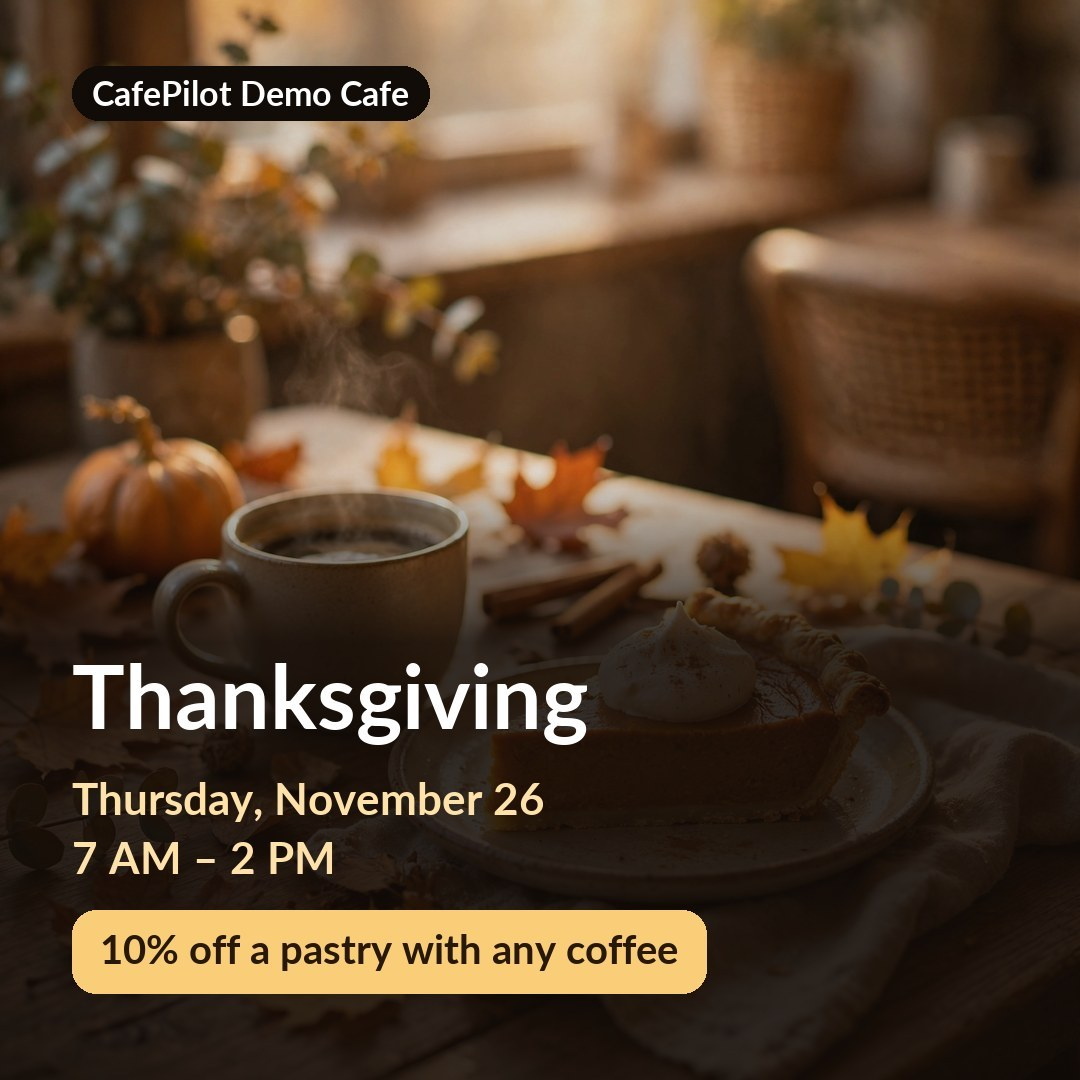
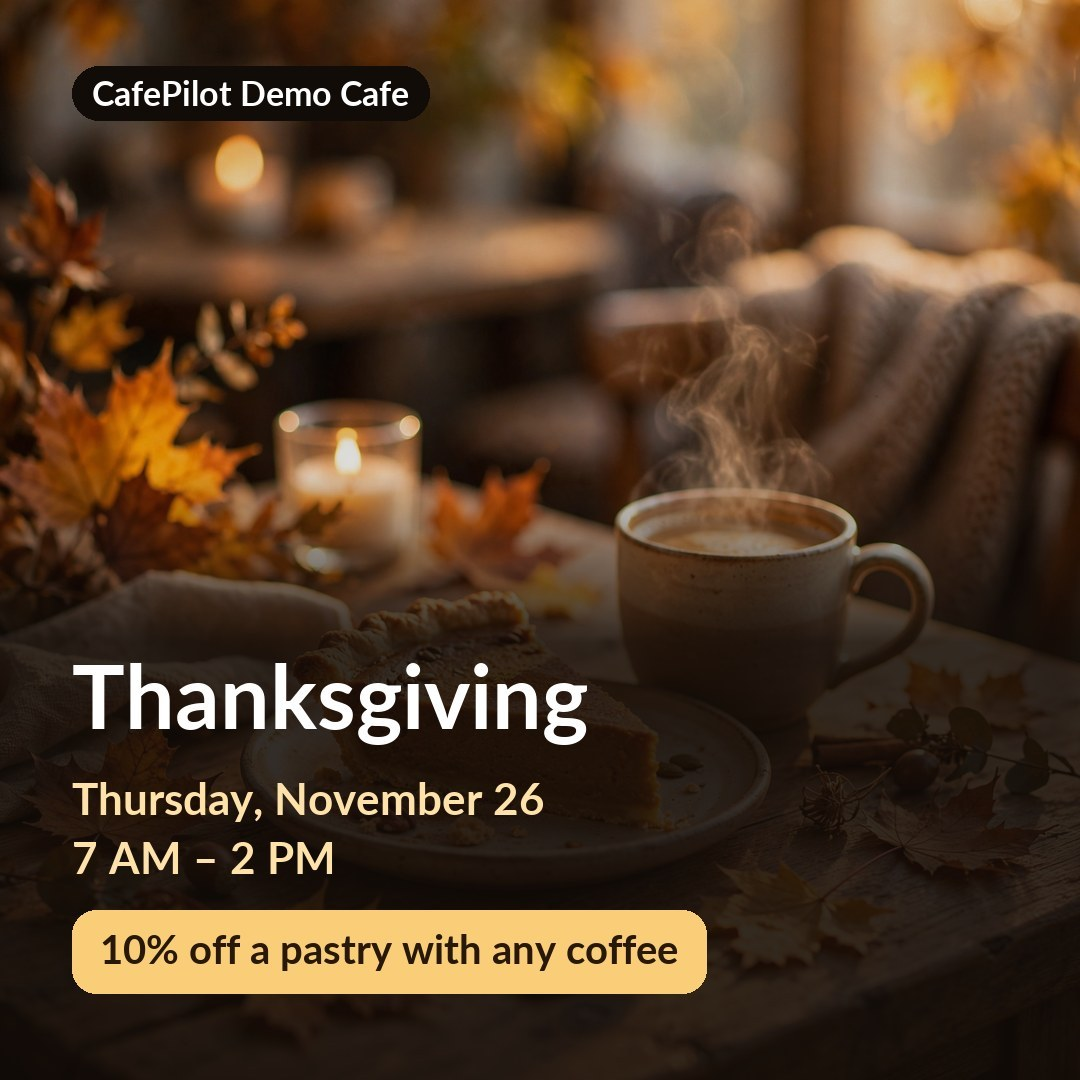
chore(promo): remake the Thanksgiving sample with a Muse caption
With the 45 s caption timeout Muse answered in 25.5 s and the caption passed the number/date
check. make_promo_samples.py gains --only to remake one sample and keep the others.

diff --git a/business-core/scripts/make_promo_samples.py b/business-core/scripts/make_promo_samples.py
@@ -2,6 +2,7 @@
 
 Run from business-core/ (needs MODEL_API_KEY in .env):
     PYTHONPATH=. python scripts/make_promo_samples.py
+    PYTHONPATH=. python scripts/make_promo_samples.py --only SAMPLE-THANKSGIVING   # remake one, keep the rest
 
 Each sample goes through the same pipeline as POST /api/v1/agent/promo-posts (Muse caption checked by
 code, Muse Image background or the code-drawn fallback, every word set by code) and is saved as a JPEG
@@ -11,6 +12,7 @@ labelled "AI-generated draft (demo)", and were never posted anywhere.
 
 from __future__ import annotations
 
+import argparse
 import io
 import json
 from concurrent.futures import ThreadPoolExecutor
@@ -33,15 +35,21 @@ LIMIT_KB = 300
 
 
 def main() -> None:
+    parser = argparse.ArgumentParser(description=__doc__, formatter_class=argparse.RawDescriptionHelpFormatter)
+    parser.add_argument("--only", action="append", choices=sorted(EVENTS), help="remake just this sample (repeatable)")
+    only = set(parser.parse_args().only or EVENTS)
     settings = get_settings()
     client = create_planner_client()
     with SessionLocal() as session:
-        facts = {sid: promo.facts_for(session, eid, promo.DEFAULT_OFFER, allow_past=True) for sid, eid in EVENTS.items()}
+        facts = {sid: promo.facts_for(session, eid, promo.DEFAULT_OFFER, allow_past=True)
+                 for sid, eid in EVENTS.items() if sid in only}
     with ThreadPoolExecutor(max_workers=len(facts)) as pool:
         made = dict(zip(facts, pool.map(
             lambda f: promo.make_variant(client, f, 0, caption_model=settings.vision_model,
                                          image_model=settings.image_model), facts.values())))
     promo.SAMPLE_DIR.mkdir(parents=True, exist_ok=True)
+    manifest = promo.SAMPLE_DIR / "samples.json"
+    kept = {s["id"]: s for s in (json.loads(manifest.read_text()) if manifest.exists() else []) if s["id"] not in only}
     samples = []
     for sample_id, item in made.items():
         jpeg = item.pop("_jpeg")
@@ -56,7 +64,9 @@ def main() -> None:
         })
         print(f"{sample_id}: {len(small) // 1024} KB · caption {item['caption_source']} · image {item['image_source']}"
               f" · {item['latency_ms']}")
-    (promo.SAMPLE_DIR / "samples.json").write_text(json.dumps(samples, indent=2, ensure_ascii=False) + "\n")
+    made_by_id = {s["id"]: s for s in samples}
+    ordered = [made_by_id.get(sid) or kept.get(sid) for sid in EVENTS]  # same order as EVENTS
+    manifest.write_text(json.dumps([s for s in ordered if s], indent=2, ensure_ascii=False) + "\n")
 
 
 if __name__ == "__main__":
